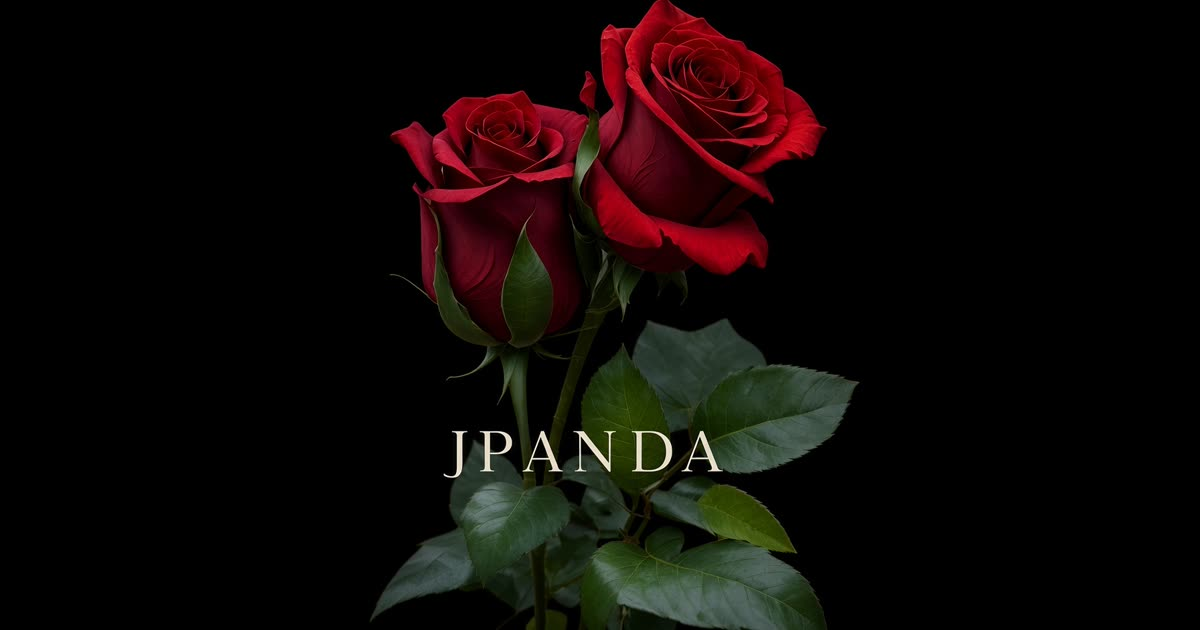
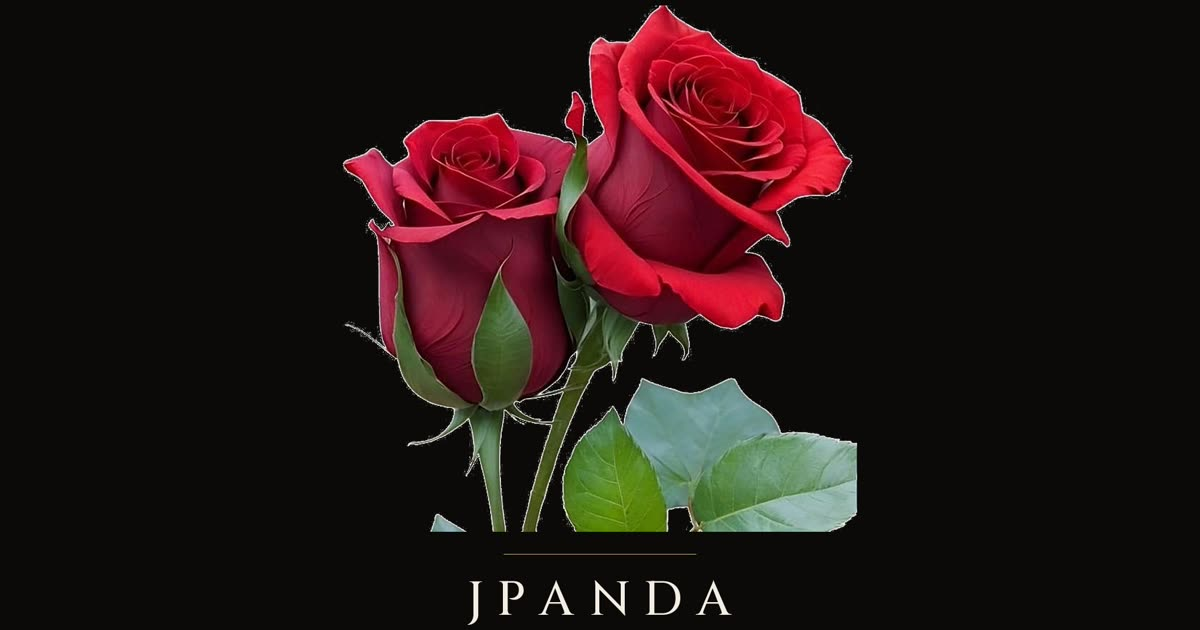
Put the house roses on the share card and the tab.

Changed region(s): [[0.2775, 0.0, 0.74, 1.0]]

diff --git a/src/routes/__root.tsx b/src/routes/__root.tsx
@@ -19,6 +19,7 @@ export const Route = createRootRoute({
     ],
     links: [
       { rel: "icon", type: "image/svg+xml", href: "/favicon.svg" },
+      { rel: "icon", type: "image/png", sizes: "32x32", href: "/favicon-32.png" },
       { rel: "stylesheet", href: appCss },
       { rel: "manifest", href: "/__grok/manifest.webmanifest" },
       { rel: "apple-touch-icon", href: "/__grok/icon-180.png" },
